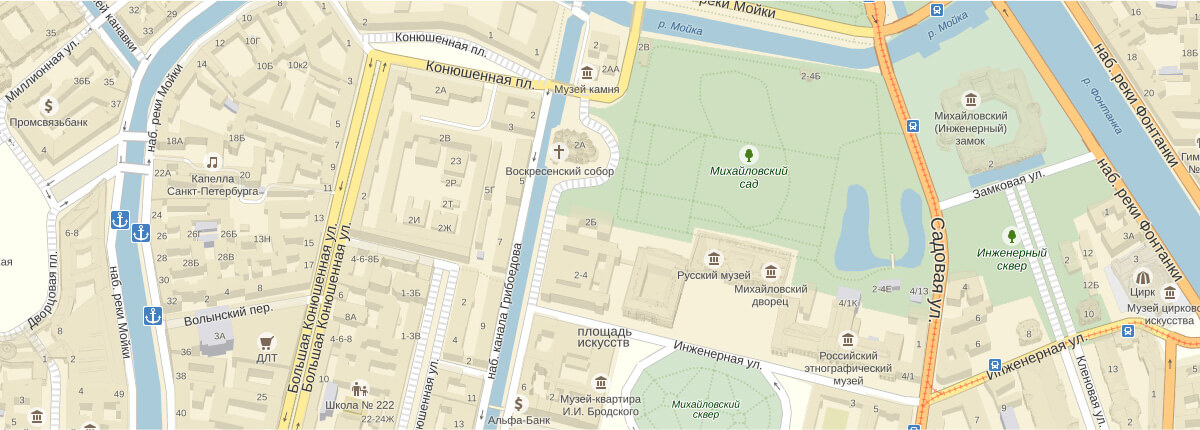
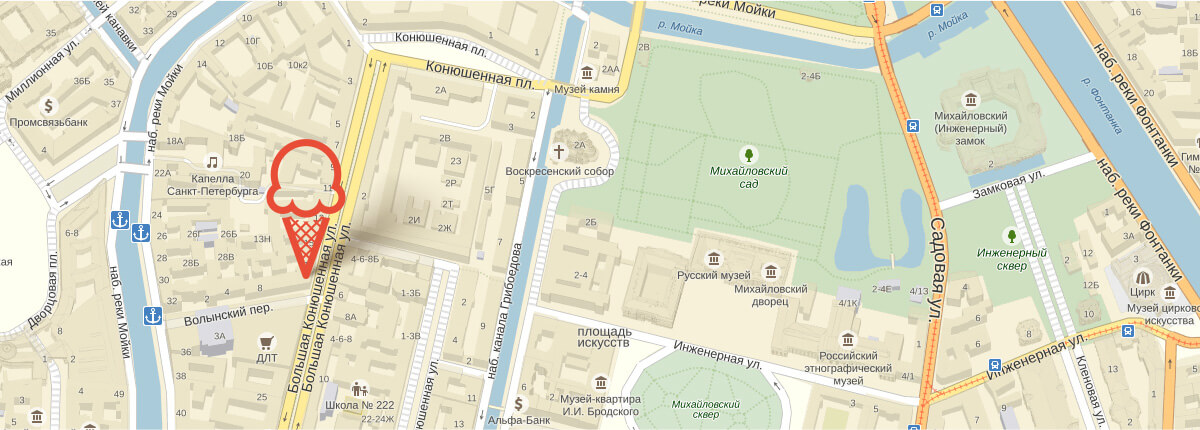
добавлена интерактивная карта

Changed region(s): [[0.2158, 0.3023, 0.37, 0.6651]]

diff --git a/catalog.html b/catalog.html
@@ -332,57 +332,57 @@
       </main>
 
       <footer class="main-footer main-footer-inner">
-        <div class="social-networks">
-          <h2 class="visually-hidden">Мы в социальных сетях</h2>
-          <ul class="social-networks-list">
-            <li>
-              <a class="social-button" href="#">
-               <span class="visually-hidden">Твиттер</span>
-               <svg xmlns="http://www.w3.org/2000/svg" width="32" height="32" viewBox="0 0 32 32"><path fill="#FFF" d="M16 0C7.164 0 0 7.164 0 16c0 8.837 7.164 16 16 16 8.837 0 16-7.163 16-16 0-8.836-7.163-16-16-16zm7.944 12.809c-.251 6.516-3.463 10.832-10.992 10.702h-.486c-.447 0-4.543-.443-5.344-1.823 2.479.19 4.247-.406 5.12-1.136-1.048-.289-2.923-.461-3.251-2.848.384.104.618.221 1.299.113-1.307-.824-2.758-1.519-2.679-3.643.311.317 1.164.518 1.46.457-.768-.233-2.149-3.244-.974-4.781 1.984  1.79 4.075 3.482 7.804 3.643.227-2.214 1.24-3.699 3.168-4.325 1.84-.479 3.255.26 3.901 1.138.737-.224 1.453-.466 2.193-.685-.004.833-.569 1.463-.935 1.709.747.165 1.423-.475 1.423-.475-.184.963-1.094 1.725-1.707 1.954z"/></svg>
-             </a>
-           </li>
+       <div class="social-networks">
+         <h2 class="visually-hidden">Мы в социальных сетях</h2>
+         <ul class="social-networks-list">
            <li>
              <a class="social-button" href="#">
-              <span class="visually-hidden">Инстаграм</span>
-              <svg xmlns="http://www.w3.org/2000/svg" width="32" height="32" viewBox="0 0 32 32"><g fill="#FFF"><path d="M20.916 16a4.938 4.938 0 1 1-9.877 0c0-.394.051-.773.138-1.14h-.897v6.838h11.396V14.86h-.897c.086.367.137.746.137 1.14z"/><path d="M15.978 18.659c1.466 0 2.659-1.193 2.659-2.659s-1.193-2.659-2.659-2.659c-1.466 0-2.659 1.193-2.659 2.659s1.192 2.659 2.659 2.659zM18.637 10.302h3.039v3.039h-3.039z"/><path d="M16 0C7.164 0 0 7.164 0 16c0 8.837 7.164 16 16 16 8.837 0 16-7.163 16-16  0-8.836-7.163-16-16-16zm7.955 21.698a2.285 2.285 0 0 1-2.279 2.279H10.279A2.285 2.285 0 0 1 8 21.698V10.302a2.286 2.286 0 0 1 2.279-2.279h11.396a2.286 2.286 0 0 1 2.279 2.279v11.396z"/></g></svg>
+              <span class="visually-hidden">Твиттер</span>
+              <svg xmlns="http://www.w3.org/2000/svg" width="32" height="32" viewBox="0 0 32 32"><path fill="#FFF" d="M16 0C7.164 0 0 7.164 0 16c0 8.837 7.164 16 16 16 8.837 0 16-7.163 16-16 0-8.836-7.163-16-16-16zm7.944 12.809c-.251 6.516-3.463 10.832-10.992 10.702h-.486c-.447 0-4.543-.443-5.344-1.823 2.479.19 4.247-.406 5.12-1.136-1.048-.289-2.923-.461-3.251-2.848.384.104.618.221 1.299.113-1.307-.824-2.758-1.519-2.679-3.643.311.317 1.164.518 1.46.457-.768-.233-2.149-3.244-.974-4.781 1.984   1.79 4.075 3.482 7.804 3.643.227-2.214 1.24-3.699 3.168-4.325 1.84-.479 3.255.26 3.901 1.138.737-.224 1.453-.466 2.193-.685-.004.833-.569 1.463-.935 1.709.747.165 1.423-.475 1.423-.475-.184.963-1.094 1.725-1.707 1.954z"/></svg>
             </a>
           </li>
           <li>
             <a class="social-button" href="#">
-             <span class="visually-hidden">Фейсбук</span>
-             <svg xmlns="http://www.w3.org/2000/svg" width="32" height="32" viewBox="0 0 32 32"><path fill="#FFF" d="M16 0C7.164 0 0 7.163 0 16s7.164 16 16 16c8.837 0 16-7.164 16-16S24.837 0 16 0zm4.062 9.455h-3.021v3.444h3.021v3.445h-3.021v8.61H14.02v-8.61H11v-3.445h3.021V9.455c0-1.902 1.353-3.445 3.021-3.445h3.021v3.445z"/></svg>
+             <span class="visually-hidden">Инстаграм</span>
+             <svg xmlns="http://www.w3.org/2000/svg" width="32" height="32" viewBox="0 0 32 32"><g fill="#FFF"><path d="M20.916 16a4.938 4.938 0 1 1-9.877 0c0-.394.051-.773.138-1.14h-.897v6.838h11.396V14.86h-.897c.086.367.137.746.137 1.14z"/><path d="M15.978 18.659c1.466 0 2.659-1.193 2.659-2.659s-1.193-2.659-2.659-2.659c-1.466 0-2.659 1.193-2.659 2.659s1.192 2.659 2.659 2.659zM18.637 10.302h3.039v3.039h-3.039z"/><path d="M16 0C7.164 0 0 7.164 0 16c0 8.837 7.164 16 16 16 8.837 0 16-7.163 16-16  0-8.836-7.163-16-16-16zm7.955 21.698a2.285 2.285 0 0 1-2.279 2.279H10.279A2.285 2.285 0 0 1 8 21.698V10.302a2.286 2.286 0 0 1 2.279-2.279h11.396a2.286 2.286 0 0 1 2.279 2.279v11.396z"/></g></svg>
            </a>
          </li>
          <li>
            <a class="social-button" href="#">
-            <span class="visually-hidden">Вконтакте</span>
-            <svg xmlns="http://www.w3.org/2000/svg" width="32" height="32" viewBox="0 0 32 32"><g fill="#FFF"><path d="M16.637 14.495c.402-.019.719-.082.951-.188.326-.145.54-.33.641-.559.101-.229.15-.496.15-.797 0-.232-.058-.465-.174-.697-.116-.232-.322-.405-.617-.517-.264-.1-.592-.155-.984-.165a76.242 76.242 0 0 0-1.652-.014h-.339v2.965h.565c.571 0 1.057-.009 1.459-.028zM18.118 17.084c-.282-.081-.672-.125-1.166-.132a127.97 127.97 0 0 0-1.55-.009h-.79v3.493h.264c1.014 0 1.74-.003 2.18-.009a3.2 3.2 0 0 0 1.212-.245c.377-.157.633-.364.774-.625s.214-.562.214-.9c0-.446-.088-.788-.261-1.03-.17-.241-.464-.423-.877-.543z"/><path d="M16 0C7.164 0 0 7.164 0 16c0 8.837 7.164 16 16 16 8.837 0 16-7.163 16-16 0-8.836-7.163-16-16-16zm6.602 20.531a3.73 3.73 0 0 1-1.124 1.327c-.552.415-1.161.71-1.823.886s-1.501.264-2.519.264h-6.121V8.987h5.443c1.13 0 1.957.038 2.48.113a5.126 5.126 0 0 1 1.561.5c.533.27.929.632 1.189 1.087.26.455.392.975.392 1.558 0 .678-.179 1.278-.536 1.795-.358.518-.863.92-1.517 1.208v.075c.917.182 1.642.559 2.179 1.13.537.571.807 1.325.807 2.261 0 .678-.138 1.283-.411 1.817z"/></g></svg>
+            <span class="visually-hidden">Фейсбук</span>
+            <svg xmlns="http://www.w3.org/2000/svg" width="32" height="32" viewBox="0 0 32 32"><path fill="#FFF" d="M16 0C7.164 0 0 7.163 0 16s7.164 16 16 16c8.837 0 16-7.164 16-16S24.837 0 16 0zm4.062 9.455h-3.021v3.444h3.021v3.445h-3.021v8.61H14.02v-8.61H11v-3.445h3.021V9.455c0-1.902 1.353-3.445 3.021-3.445h3.021v3.445z"/></svg>
           </a>
         </li>
-          </ul>
-        </div>
-        <div class="other-info">
-          <h2 class="visually-hidden">Полезная информация и документы</h2>
-          <ul class="other-info-list info-list-production">
-            <li class="for-suppliers">
-              <a class="for-suppliers-link" href="#">Для поставщиков</a>
-              <svg width="15" height="13" viewBox="0 0 15 13"><path fill="#FFF" d="M10.799 0c-1.35 0-2.551.65-3.3 1.661A4.097 4.097 0 0 0 4.199 0C1.875 0 0 1.806 0 4.044 0 7.223 7.499 13 7.499 13s7.499-5.777 7.499-8.956C14.998 1.806 13.123 0 10.799 0z"/></svg>
-            </li>
-            <li><a href="#">О производстве</a></li>
-          </ul>
-          <ul class="other-info-list info-list-documents">
-            <li><a href="#">Наши документы</a></li>
-            <li><a href="#">Экологические стандарты</a></li>
-          </ul>
-        </div>
-        <div class="copyright-info">
-          <h2 class="visually-hidden">Информация о разработчике</h2>
-          <a href="https://htmlacademy.ru/intensive/htmlcss" class="logo-htmlacademy"><img src="img/logo-htmlacademy.svg" width="108" height="39" alt="Логотип HTML Academy"></a>
-          <p>Сделано в <a href="https://htmlacademy.ru/intensive/htmlcss">HTML Academy</a> © 2017</p>
-        </div>
-      </footer>
+        <li>
+          <a class="social-button" href="#">
+           <span class="visually-hidden">Вконтакте</span>
+           <svg xmlns="http://www.w3.org/2000/svg" width="32" height="32" viewBox="0 0 32 32"><g fill="#FFF"><path d="M16.637 14.495c.402-.019.719-.082.951-.188.326-.145.54-.33.641-.559.101-.229.15-.496.15-.797 0-.232-.058-.465-.174-.697-.116-.232-.322-.405-.617-.517-.264-.1-.592-.155-.984-.165a76.242 76.242 0 0 0-1.652-.014h-.339v2.965h.565c.571 0 1.057-.009 1.459-.028zM18.118 17.084c-.282-.081-.672-.125-1.166-.132a127.97 127.97 0 0 0-1.55-.009h-.79v3.493h.264c1.014 0 1.74-.003 2.18-.009a3.2 3.2 0 0 0 1.212-.245c.377-.157.633-.364.774-.625s.214-.562.214-.9c0-.446-.088-.788-.261-1.03-.17-.241-.464-.423-.877-.543z"/><path d="M16 0C7.164 0 0 7.164 0 16c0 8.837 7.164 16 16 16 8.837 0 16-7.163 16-16 0-8.836-7.163-16-16-16zm6.602 20.531a3.73 3.73 0 0 1-1.124 1.327c-.552.415-1.161.71-1.823.886s-1.501.264-2.519.264h-6.121V8.987h5.443c1.13 0 1.957.038 2.48.113a5.126 5.126 0 0 1 1.561.5c.533.27.929.632 1.189 1.087.26.455.392.975.392 1.558 0 .678-.179 1.278-.536 1.795-.358.518-.863.92-1.517 1.208v.075c.917.182 1.642.559 2.179 1.13.537.571.807 1.325.807 2.261 0 .678-.138 1.283-.411 1.817z"/></g></svg>
+         </a>
+       </li>
+         </ul>
+       </div>
+       <div class="other-info">
+         <h2 class="visually-hidden">Полезная информация и документы</h2>
+         <ul class="other-info-list info-list-production">
+           <li class="for-suppliers">
+             <a class="for-suppliers-link" href="#">Для поставщиков</a>
+             <svg width="15" height="13" viewBox="0 0 15 13"><path fill="#FFF" d="M10.799 0c-1.35 0-2.551.65-3.3 1.661A4.097 4.097 0 0 0 4.199 0C1.875 0 0 1.806 0 4.044 0 7.223 7.499 13 7.499 13s7.499-5.777 7.499-8.956C14.998 1.806 13.123 0 10.799 0z"/></svg>
+           </li>
+           <li><a href="#">О производстве</a></li>
+         </ul>
+         <ul class="other-info-list info-list-documents">
+           <li><a href="#">Наши документы</a></li>
+           <li><a href="#">Экологические стандарты</a></li>
+         </ul>
+       </div>
+       <div class="copyright-info">
+         <h2 class="visually-hidden">Информация о разработчике</h2>
+         <a href="https://htmlacademy.ru/intensive/htmlcss" class="logo-htmlacademy"><img src="img/logo-htmlacademy.svg" width="108" height="39" alt="Логотип HTML Academy"></a>
+         <p>Сделано в <a href="https://htmlacademy.ru/intensive/htmlcss">HTML Academy</a> © 2017</p>
+       </div>
+    </footer>
 
-    </div>
+   </div>
   </div>
 
  </body>

diff --git a/css/style.css b/css/style.css
@@ -1204,13 +1204,12 @@ label.visually-hidden {
 
 .main-contacts {
   position: relative;
-  width: 1200px;
 }
 
 .contacts-info {
   position: absolute;
   top: 62px;
-  right: 27px;
+  right: 379px;
   width: 252px;
   padding: 29px 25px 30px;
   font-size: 14px;
@@ -1257,26 +1256,16 @@ label.visually-hidden {
   padding: 10px 27px 10px 28px;
 }
 
-.main-map::before {
-  content: "";
-  position: absolute;
-  top: 138px;
-  left: 266px;
-  width: 80px;
-  height: 140px;
-  background-image: url("../img/pin.svg");
+.main-map {
+  background-image: url("../img/map.jpg");
   background-repeat: no-repeat;
+  background-position: 50% 0;
+  background-size: auto 430px;
 }
 
-.main-map::after {
-  content: "";
-  position: absolute;
-  top: 168px;
-  left: 305px;
-  width: 182px;
-  height: 110px;
-  background-image: url("../img/pin-shadow.png");
-  background-repeat: no-repeat;
+.main-map iframe {
+  width: 100%;
+  height: 430px;
 }
 
 .breadcrumbs-list {
@@ -1590,7 +1579,7 @@ label.visually-hidden {
 
 .filter-filler-list .filter-option {
   margin-right: 20px;
-  margin-bottom: 4px;
+  margin-bottom: 2px;
 }
 
 .filter-filler-list .filter-option:nth-child(2) {
@@ -1797,17 +1786,29 @@ label.visually-hidden {
   -webkit-box-pack: justify;
       -ms-flex-pack: justify;
           justify-content: space-between;
-  padding: 13px 27px 21px;
+  width: 1200px;
+  margin: 0 auto;
+  padding: 11px 27px 21px;
 }
 
 .main-footer-inner {
-  border-top: 1px solid rgba(252, 253, 252, 0.3);
+  position: relative;
   padding: 18px 0 21px;
-  margin: 0 27px;
+}
+
+.main-footer-inner::before {
+  content: "";
+  position: absolute;
+  top: -3px;
+  left: 20px;
+  width: 1146px;
+  height: 1px;
+  background-color: rgba(252, 253, 252, 0.3)
 }
 
 .social-networks {
   margin-top: 5px;
+  margin-left: 27px;
 }
 
 .social-networks-list,
@@ -1917,6 +1918,7 @@ label.visually-hidden {
 .copyright-info {
   font-size: 12px;
   line-height: 18px;
+  margin-right: 27px;
 }
 
 .copyright-info p {

diff --git a/index.html b/index.html
@@ -188,19 +188,20 @@
           </div>
          </section>
        </div>
+      </div>
 
        <section class="main-contacts">
          <h2 class="visually-hidden">Где мы находимся и как с нами связаться</h2>
          <div class="main-map">
-           <img src="img/map.jpg" width="1200" height="429" alt="Мы на карте">
-         </div>
-         <div class="contacts-info">
-           <p class="main-contacts-info-title">Адрес главного офиса и офлайн-магазина:</p>
-           <p class="main-contacts-info">ул. Большая Конюшенная 19/8, Санкт-Петербург</p>
-           <p>Для заказов по телефону:</p>
-           <p class="main-contacts-info main-phone-number"><a href="#">8 812 450-25-25</a></p>
-           <p class="main-working-hours">(с 10 до 20 ежедневно)</p>
-           <a href="#" class="button contacts-button">Форма обратной связи</a>
+           <iframe src="https://www.google.com/maps/d/embed?mid=1yjdTI2CeG9ig7ZHzFj3DASeYYl64tifm&hl=ru"></iframe>
+           <div class="contacts-info">
+            <p class="main-contacts-info-title">Адрес главного офиса и офлайн-магазина:</p>
+            <p class="main-contacts-info">ул. Большая Конюшенная 19/8, Санкт-Петербург</p>
+            <p>Для заказов по телефону:</p>
+            <p class="main-contacts-info main-phone-number"><a href="#">8 812 450-25-25</a></p>
+            <p class="main-working-hours">(с 10 до 20 ежедневно)</p>
+            <a href="#" class="button contacts-button">Форма обратной связи</a>
+          </div>
          </div>
        </section>
      </main>
@@ -278,7 +279,7 @@
        </div>
      </section>
 
-   </div>
+
   </div>
 
  </body>
